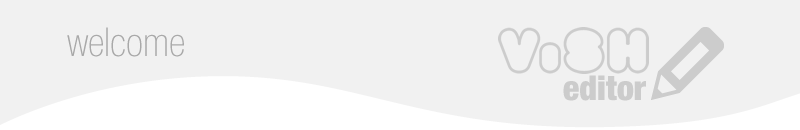
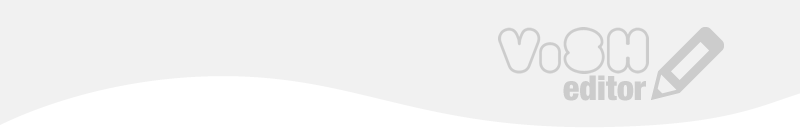
fixed excursion options title

Changed region(s): [[0.0625, 0.2462, 0.25, 0.4308]]

diff --git a/public/vishEditor/edit.html b/public/vishEditor/edit.html
@@ -275,6 +275,9 @@
     <div style='display:none'>    
       <form id='presentationdetails'>         
         <div id="presentation_details_fields">
+        	<div id="titlepres">
+        		<p class="titlepresp">Welcome</p>
+        	</div>
           <label for="presentation_title">
             <div id="tutorialstart" class="textintro1 textintromargin1"><span i18n-key="i.Title">Title</span></div>
           </label>
@@ -300,7 +303,9 @@
         </div>
 
         <div id="pedagogical_options_fields" style="display:none">
-          
+                  	<div id="titlepres">
+        		<p class="titlepresp">Pedagogical Option</p>
+        	</div>
           <div id="pedagogical_first_row">
 	          <div id="educational_level_box">
 		          <label for="educational_level">

diff --git a/public/vishEditor/stylesheets/all/editor.css b/public/vishEditor/stylesheets/all/editor.css
@@ -1809,3 +1809,12 @@ span.mcChoiceSpan{
 	margin-left: 68px;
 	margin-top: 50px;
 }
+
+.titlepresp {
+    color: #B6B6B6;
+    font-family: Arial;
+    font-size: 2em;
+    left: 7%;
+    position: absolute;
+    top: -1.2%;
+}
